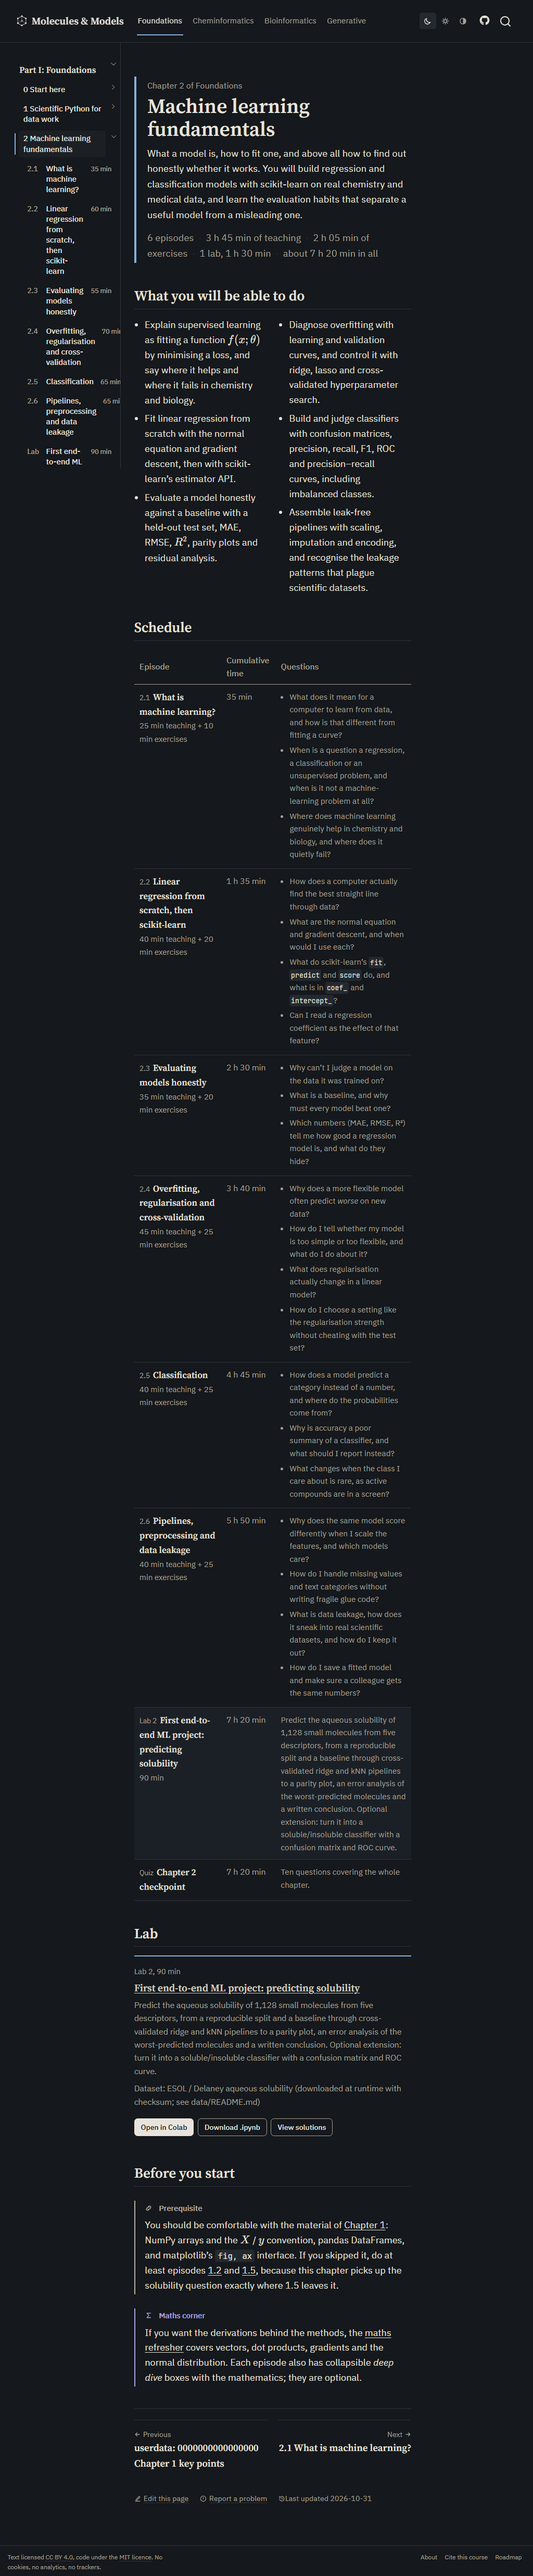
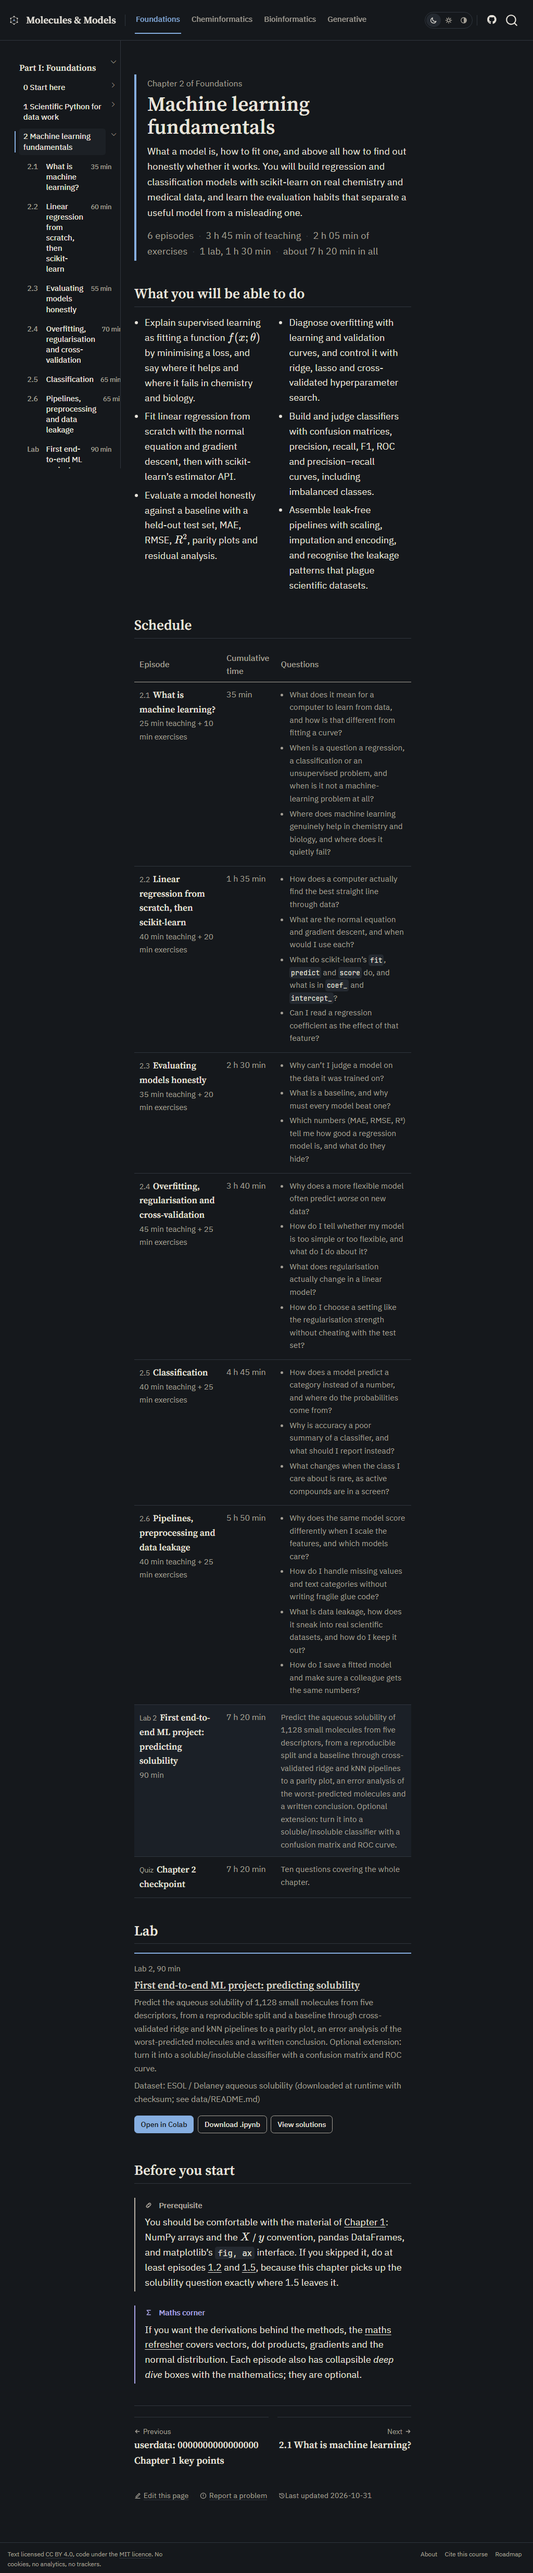
Header on one centre line; a little part colour
- Navbar rebuilt as a single 60px row: brand, a thin rule, the four Part
  tabs flush left with the active tab in its Part colour, theme switch as
  one bordered pill, then GitHub and search; everything vertically centred
- Phones: hamburger, brand and icons on one row; the theme switch moves to
  the foot of the collapsed menu (second copy mounted by mm.js)
- Colour, sparingly: episode/lab number, key-points rule and on-this-page
  marker take the Part accent; primary buttons are slate blue (contrast
  audit extended for the pair)

diff --git a/assets/scss/mm-light.scss b/assets/scss/mm-light.scss
@@ -59,7 +59,7 @@ $enable-gradients: false;
   --mm-radius: .375rem;
   --mm-radius-lg: .5rem;
   --mm-transition: 150ms ease;
-  --mm-header-h: 56px;
+  --mm-header-h: 60px;
 }
 html[data-mm-part="1"] { --mm-accent: var(--mm-accent-1); }
 html[data-mm-part="2"] { --mm-accent: var(--mm-accent-2); }
@@ -141,68 +141,102 @@ table.dataframe tbody th { color: var(--mm-text-muted); font-weight: 400; text-a
 .table thead th { color: var(--mm-text-muted); font-weight: 500; border-bottom: 1px solid var(--mm-text-muted); }
 
 // ---------------------------------------------------------------------------
-// Header
+// Header: one row, everything on a single centre line.
+//   [logo  Molecules & Models] | Foundations  Cheminformatics  ...        (theme) | GitHub  Search
 // ---------------------------------------------------------------------------
 .headroom--unpinned { transform: none !important; }
 .navbar {
   background: var(--mm-bg) !important;
   border-bottom: 1px solid var(--mm-border);
   min-height: var(--mm-header-h);
-  padding: 0 .9rem;
+  padding: 0 1.25rem;
   --bs-navbar-color: var(--mm-text);
   --bs-navbar-hover-color: var(--mm-text);
   --bs-navbar-active-color: var(--mm-text);
 }
-.navbar .navbar-brand-container { margin-right: 2rem; }
-.navbar .navbar-brand { display: flex; align-items: center; gap: .55rem; padding: 0; color: var(--mm-text); text-decoration: none; }
-.navbar .navbar-brand img { height: 26px; width: 26px; max-height: 26px; }
-.navbar .navbar-title { font-family: var(--mm-font-heading); font-weight: 600; font-size: 1.15rem; white-space: nowrap; }
-.navbar .navbar-nav.navbar-nav-scroll.me-auto { margin: 0 auto 0 0 !important; }
-.navbar .navbar-nav .nav-link {
-  position: relative; color: var(--mm-text-muted); font-weight: 400; font-size: .95rem; padding: 1rem .75rem;
-  text-decoration: none;
-}
-.navbar .navbar-nav .nav-link:hover { color: var(--mm-text); }
-.navbar .navbar-nav .nav-link.active { color: var(--mm-text); }
-.navbar .navbar-nav .nav-link.active::after {
-  content: ""; position: absolute; left: .75rem; right: .75rem; bottom: 0; height: 2px;
-  background: var(--mm-accent-1);
-}
-.navbar .navbar-nav .nav-link[href*="part-2-"].active::after { background: var(--mm-accent-2); }
-.navbar .navbar-nav .nav-link[href*="part-3-"].active::after { background: var(--mm-accent-3); }
-.navbar .navbar-nav .nav-link[href*="part-4-"].active::after { background: var(--mm-accent-4); }
-.navbar .quarto-navbar-tools, .navbar #quarto-search { display: flex; align-items: center; gap: .1rem; }
+.navbar > .navbar-container { display: flex; align-items: center; flex-wrap: nowrap; min-height: var(--mm-header-h); padding: 0; }
+.navbar .navbar-brand-container { display: flex; align-items: center; flex: 0 0 auto; max-width: none; margin: 0 !important; order: 1; }
+.navbar .navbar-brand { display: flex; align-items: center; padding: 0; margin: 0; color: var(--mm-text); text-decoration: none; }
+.navbar .navbar-brand.navbar-brand-logo { margin-right: .6rem; }
+.navbar .navbar-brand img { height: 22px; width: 22px; max-height: 22px; display: block; }
+.navbar .navbar-title { font-family: var(--mm-font-heading); font-weight: 600; font-size: 1.12rem; line-height: 1; white-space: nowrap; }
+.navbar .navbar-toggler { order: 0; border: 0; padding: .3rem .4rem; margin-right: .4rem; color: var(--mm-text); }
+.navbar .navbar-toggler:focus { box-shadow: none; outline: 2px solid var(--mm-focus); outline-offset: 2px; }
+.navbar .quarto-navbar-tools { order: 3; display: flex; align-items: center; gap: .1rem; margin-left: .75rem; }
+.navbar #quarto-search { order: 4; display: flex; align-items: center; }
 .navbar .quarto-navbar-tools .quarto-navigation-tool, #quarto-search .aa-DetachedSearchButton {
-  color: var(--mm-text-muted); background: transparent; border: 0; border-radius: .3rem; width: 36px; height: 36px;
-  display: inline-flex; align-items: center; justify-content: center; font-size: 1.05rem;
+  color: var(--mm-text-muted); background: transparent; border: 0; border-radius: .35rem; width: 34px; height: 34px; padding: 0;
+  display: inline-flex; align-items: center; justify-content: center; font-size: 1rem;
 }
 .navbar .quarto-navbar-tools .quarto-navigation-tool:hover, #quarto-search .aa-DetachedSearchButton:hover { color: var(--mm-text); background: var(--mm-surface-2); }
 .navbar .quarto-color-scheme-toggle { display: none !important; } // replaced by the three-state mm switch
-.navbar-toggler { border-color: var(--mm-border); color: var(--mm-text); }
 
-// theme switch (injected by assets/js/mm.js): three quiet icon buttons
-.mm-seg { display: inline-flex; gap: .1rem; margin-right: .35rem; }
+// theme switch (injected by assets/js/mm.js): one bordered pill holding three quiet icon buttons
+.mm-theme-ctl { display: flex; align-items: center; }
+.mm-theme-ctl::after { content: ""; width: 1px; height: 20px; background: var(--mm-border); margin: 0 .55rem 0 .45rem; }
+.mm-seg { display: inline-flex; gap: 1px; border: 1px solid var(--mm-border); border-radius: 999px; padding: 2px; }
 .mm-seg button {
-  border: 0; background: transparent; color: var(--mm-text-muted); border-radius: .3rem; width: 32px; height: 32px;
+  border: 0; background: transparent; color: var(--mm-text-muted); border-radius: 999px; width: 28px; height: 26px;
   display: inline-flex; align-items: center; justify-content: center; cursor: pointer;
   transition: background var(--mm-transition), color var(--mm-transition);
 }
-.mm-seg button svg { width: 15px; height: 15px; flex: 0 0 auto; }
+.mm-seg button svg { width: 14px; height: 14px; flex: 0 0 auto; }
 .mm-seg button[aria-checked="true"] { background: var(--mm-surface-2); color: var(--mm-text); }
 .mm-seg button:hover { color: var(--mm-text); }
+.mm-theme-ctl--menu { display: none; }
+.mm-theme-ctl-label { font-size: .85rem; color: var(--mm-text-muted); margin-right: .6rem; }
+
+// part tabs: desktop
+@media (min-width: 992px) {
+  .navbar .navbar-collapse { order: 2; display: flex !important; align-items: center; flex: 1 1 auto; align-self: stretch; }
+  .navbar .navbar-collapse::before { content: ""; width: 1px; height: 22px; background: var(--mm-border); margin: 0 .9rem 0 1.4rem; flex: 0 0 auto; }
+  .navbar .navbar-nav { display: flex; align-items: stretch; align-self: stretch; margin: 0 auto 0 0 !important; gap: .1rem; }
+  .navbar .navbar-nav .nav-item { display: flex; }
+  .navbar .navbar-nav .nav-link {
+    position: relative; display: flex; align-items: center; padding: 0 .7rem; color: var(--mm-text-muted);
+    font-size: .93rem; font-weight: 500; text-decoration: none;
+  }
+  .navbar .navbar-nav .nav-link:hover { color: var(--mm-text); }
+  .navbar .navbar-nav .nav-link::after { content: ""; position: absolute; left: .7rem; right: .7rem; bottom: -1px; height: 2px; background: transparent; }
+  .navbar .navbar-nav .nav-link.active { color: var(--mm-accent-1); }
+  .navbar .navbar-nav .nav-link.active::after { background: var(--mm-accent-1); }
+  .navbar .navbar-nav .nav-link[href*="part-2-"].active { color: var(--mm-accent-2); }
+  .navbar .navbar-nav .nav-link[href*="part-2-"].active::after { background: var(--mm-accent-2); }
+  .navbar .navbar-nav .nav-link[href*="part-3-"].active { color: var(--mm-accent-3); }
+  .navbar .navbar-nav .nav-link[href*="part-3-"].active::after { background: var(--mm-accent-3); }
+  .navbar .navbar-nav .nav-link[href*="part-4-"].active { color: var(--mm-accent-4); }
+  .navbar .navbar-nav .nav-link[href*="part-4-"].active::after { background: var(--mm-accent-4); }
+}
 @media (min-width: 992px) and (max-width: 1199.98px) {
-  .navbar .navbar-brand-container { flex: 0 0 auto; }
-  .navbar .navbar-brand, .navbar .navbar-title { max-width: none; overflow: visible; }
-  .navbar .navbar-nav .nav-link { padding-left: .5rem; padding-right: .5rem; font-size: .9rem; }
-  .navbar .navbar-nav .nav-link.active::after { left: .5rem; right: .5rem; }
+  .navbar .navbar-collapse::before { margin: 0 .6rem 0 1rem; }
+  .navbar .navbar-nav .nav-link { padding: 0 .5rem; font-size: .88rem; }
+  .navbar .navbar-nav .nav-link::after { left: .5rem; right: .5rem; }
 }
+// part tabs: collapsed menu on narrow screens; brand, theme switch and icons stay on one line
 @media (max-width: 991.98px) {
-  .navbar .navbar-collapse { background: var(--mm-bg); border-top: 1px solid var(--mm-border); margin: 0 -.9rem; padding: .5rem .9rem 1rem; }
-  .navbar .navbar-nav .nav-link { padding: .55rem .25rem; }
-  .navbar .navbar-nav .nav-link.active::after { left: 0; width: 2px; right: auto; top: .4rem; bottom: .4rem; height: auto; }
-  .navbar .navbar-nav .nav-link.active { padding-left: .75rem; }
+  .navbar > .navbar-container { flex-wrap: wrap; }
+  .navbar > .navbar-container > .navbar-toggler { order: 0; margin-right: .5rem; }
+  .navbar > .navbar-container > .navbar-brand-container { flex: 1 1 auto; max-width: none; justify-content: flex-start; margin: 0 !important; order: 1; }
+  .navbar > .navbar-container > .quarto-navbar-tools { order: 2; margin-left: auto !important; flex: 0 0 auto; }
+  .navbar > .navbar-container > #quarto-search { order: 3; margin-left: 0 !important; flex: 0 0 auto; }
+  .navbar .quarto-navbar-tools .mm-theme-ctl { display: none; }
+  .navbar .navbar-collapse .mm-theme-ctl--menu { display: flex; align-items: center; border-top: 1px solid var(--mm-border); margin-top: .4rem; padding: .7rem .25rem 0; }
+  .navbar .navbar-collapse .mm-theme-ctl--menu::after { display: none; }
+  .navbar .navbar-collapse { order: 4; flex-basis: 100%; background: var(--mm-bg); border-top: 1px solid var(--mm-border); margin: 0 -1.25rem; padding: .4rem 1.25rem .8rem; }
+  .navbar .navbar-nav { margin: 0 !important; }
+  .navbar .navbar-nav .nav-link { position: relative; padding: .55rem .25rem; color: var(--mm-text-muted); font-size: .95rem; text-decoration: none; }
+  .navbar .navbar-nav .nav-link:hover { color: var(--mm-text); }
+  .navbar .navbar-nav .nav-link.active { color: var(--mm-text); padding-left: .75rem; }
+  .navbar .navbar-nav .nav-link.active::after { content: ""; position: absolute; left: 0; top: .5rem; bottom: .5rem; width: 2px; background: var(--mm-accent); }
+  .mm-theme-ctl::after { margin: 0 .25rem 0 .2rem; }
 }
-@media (max-width: 420px) { .navbar .navbar-title { font-size: 1rem; } .navbar .navbar-brand img { height: 22px; width: 22px; } }
+@media (max-width: 420px) {
+  .navbar { padding: 0 .9rem; }
+  .navbar .navbar-collapse { margin: 0 -.9rem; padding: .4rem .9rem .8rem; }
+  .navbar .navbar-title { font-size: 1rem; }
+  .navbar .navbar-brand img { height: 20px; width: 20px; }
+  .mm-seg button { width: 26px; }
+}
 
 // ---------------------------------------------------------------------------
 // Sidebar (contents) — decorated by scripts/post_render.py
@@ -244,7 +278,7 @@ table.dataframe tbody th { color: var(--mm-text-muted); font-weight: 400; text-a
 // Right rail TOC
 #quarto-margin-sidebar { font-size: .85rem; }
 #TOC .nav-link, .sidebar nav[role="doc-toc"] ul > li > a { color: var(--mm-text-muted); border-left: 1px solid var(--mm-border); text-decoration: none; }
-#TOC .nav-link.active, .sidebar nav[role="doc-toc"] ul > li > a.active { color: var(--mm-text); border-left: 2px solid var(--mm-text); }
+#TOC .nav-link.active, .sidebar nav[role="doc-toc"] ul > li > a.active { color: var(--mm-text); border-left: 2px solid var(--mm-accent); }
 .sidebar nav[role="doc-toc"] > h2 { font-family: var(--mm-font-heading); font-size: .95rem; color: var(--mm-text); border: 0; font-weight: 600; }
 
 // Breakpoints: below 1200px hide the TOC rail; below 992px the sidebar becomes a drawer (Quarto)
@@ -263,7 +297,7 @@ table.dataframe tbody th { color: var(--mm-text-muted); font-weight: 400; text-a
 .mm-crumb a:hover { color: var(--mm-text); text-decoration: underline; }
 .mm-crumb .mm-part-dot { width: 8px; height: 8px; border-radius: 50%; background: var(--mm-accent); display: inline-block; }
 .mm-title h1 { font-size: 2.3rem; margin: 0 0 .8rem; line-height: 1.12; }
-.mm-title .mm-ep-label { font-family: var(--mm-font-heading); font-weight: 400; color: var(--mm-text-muted); margin-right: .5rem; }
+.mm-title .mm-ep-label { font-family: var(--mm-font-heading); font-weight: 400; color: var(--mm-accent); margin-right: .5rem; }
 .mm-meta-line { color: var(--mm-text-muted); font-size: .92rem; margin: 0 0 .9rem; }
 .mm-meta-line span + span::before { content: "·"; margin: 0 .5rem; color: var(--mm-border); }
 .mm-overview {
@@ -291,8 +325,8 @@ table.dataframe tbody th { color: var(--mm-text-muted); font-weight: 400; text-a
 }
 .mm-btn:hover { background: var(--mm-surface-2); color: var(--mm-text); border-color: var(--mm-text); text-decoration: none; }
 .mm-btn svg { width: 15px; height: 15px; }
-.mm-btn-primary { background: var(--mm-text); border-color: var(--mm-text); color: var(--mm-bg); }
-.mm-btn-primary:hover { background: var(--mm-text-muted); border-color: var(--mm-text-muted); color: var(--mm-bg); }
+.mm-btn-primary { background: var(--mm-accent-1); border-color: var(--mm-accent-1); color: var(--mm-bg); }
+.mm-btn-primary:hover { background: color-mix(in srgb, var(--mm-accent-1) 85%, var(--mm-text)); border-color: transparent; color: var(--mm-bg); }
 .mm-btn-sm { padding: .3rem .7rem; font-size: .82rem; }
 .mm-btn[aria-pressed="true"] { border-color: var(--mm-done); color: var(--mm-done); }
 
@@ -456,7 +490,7 @@ a.mm-term:hover + .mm-term-tip, a.mm-term:focus-visible + .mm-term-tip, .mm-term
 // ---------------------------------------------------------------------------
 // Key points, episode footer
 // ---------------------------------------------------------------------------
-.mm-keypoints { border-top: 2px solid var(--mm-text); padding: 1rem 0 .5rem; margin: 2.5rem 0 1rem; max-width: var(--mm-measure); }
+.mm-keypoints { border-top: 2px solid var(--mm-accent); padding: 1rem 0 .5rem; margin: 2.5rem 0 1rem; max-width: var(--mm-measure); }
 .mm-keypoints h2, #quarto-document-content .mm-keypoints h2 { margin: 0 0 .6rem; padding: 0; border: 0; font-size: 1.3rem; }
 .mm-keypoints ul { margin: 0; padding-left: 1.2rem; }
 .mm-keypoints li + li { margin-top: .4rem; }

diff --git a/assets/js/mm.js b/assets/js/mm.js
@@ -57,6 +57,15 @@
     var tools = document.querySelector(".navbar .quarto-navbar-tools");
     if (!tools) return;
     tools.insertBefore(themeControl(), tools.firstChild);
+    // On narrow screens the header has no room for the switch: a second copy lives at the foot of the
+    // collapsed menu (CSS shows one or the other). Both copies share the same stored preference.
+    var menu = document.querySelector("#navbarCollapse");
+    if (menu) {
+      var inMenu = themeControl();
+      inMenu.classList.add("mm-theme-ctl--menu");
+      inMenu.insertBefore(el("span", { class: "mm-theme-ctl-label" }, "Theme"), inMenu.firstChild);
+      menu.appendChild(inMenu);
+    }
   }
 
   /* ---------------------------------------------------------------- solutions, quizzes, outputs, print */

diff --git a/scripts/check_contrast.py b/scripts/check_contrast.py
@@ -72,6 +72,7 @@ def main() -> int:
                 checks.append((f"{name} border on {bgname}", t[name], bgs[bgname], 3.0))
         for name in [k for k in t if k.startswith("syntax-")]:
             checks.append((f"{name} on code-bg", t[name], t["code-bg"], 4.5))
+        checks.append(("primary button text (bg colour) on accent-1", t["bg"], t["accent-1"], 4.5))
         checks.append(("focus ring on bg", t["focus"], t["bg"], 3.0))
         checks.append(("focus ring on surface", t["focus"], t["surface"], 3.0))
         checks.append(("border on bg (non-text)", t["border"], t["bg"], 1.2))
